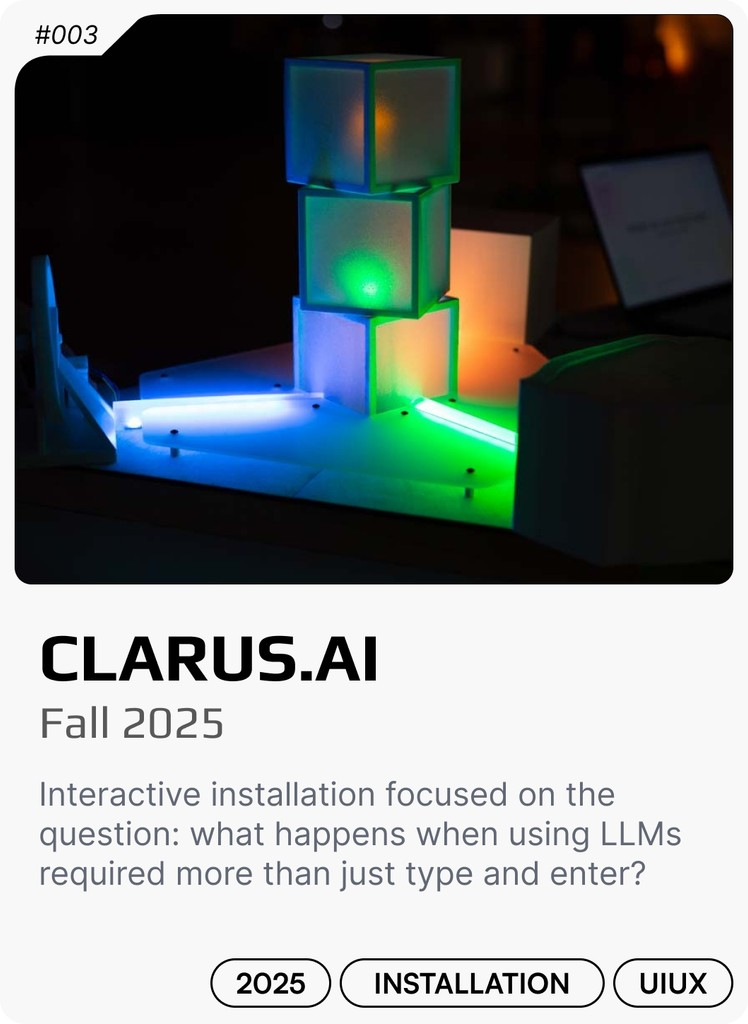
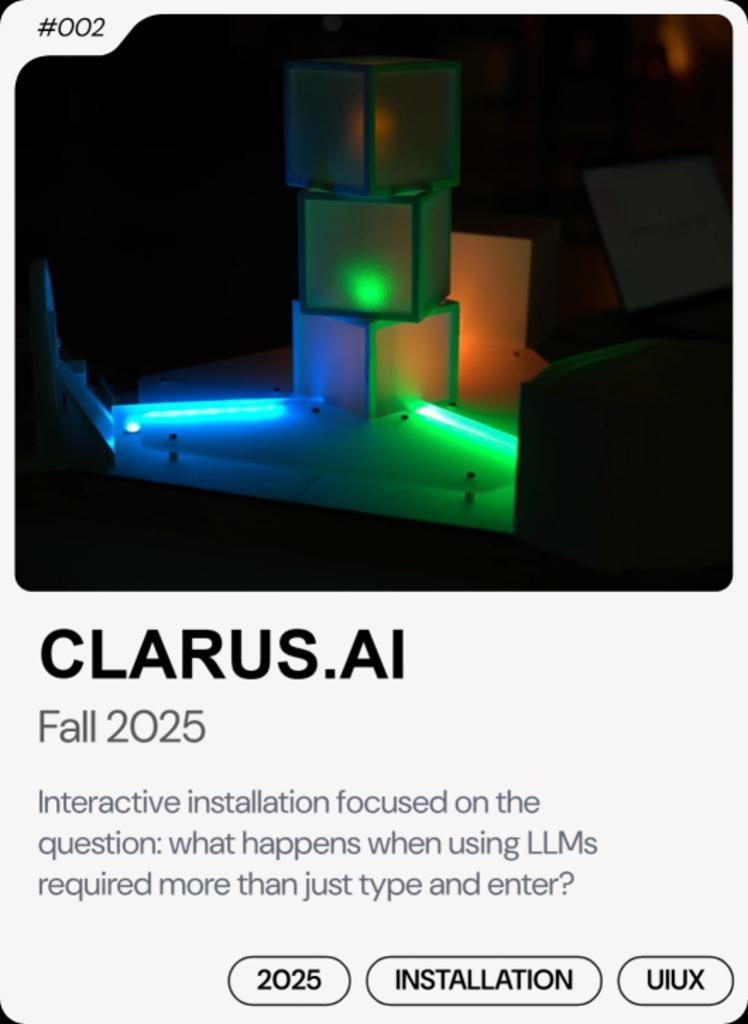
Use the real card faces for the next-project pair, in both themes
These thumbnails were flat artwork kept in step with the carousel by hand,
and they had drifted — the POVI one called the project #008 while the grid
called it #004 — and being pictures of light cards, they stayed bright on a
dark page. They are now exported from the cards themselves, once per theme,
so they cannot disagree with the carousel about what a project looks like or
what it is numbered.

They are backgrounds rather than <img> so the theme picks between the two in
CSS alone. Swapping an <img>'s src in script would mean the light file is
already fetched and painted before the swap runs; a custom property holding
a url() that nothing uses is never fetched, so a dark visitor downloads the
dark file only and never sees the wrong one flash. The accessible name moves
to the link.

Puregym was carrying its own duplicate pair under assets/puregym; it now
draws from the shared set like every other page.

DFG-ASBA is the exception: it has no card in the carousel to render from —
its link still points at the old live site — so its dark face is derived
from the light artwork, remapping the chrome onto the dark tokens and
leaving the hero mockup its own colours.

diff --git a/case.css b/case.css
@@ -388,9 +388,22 @@ main { padding-bottom: 0; }
   --rise-replay: 1;
 }
 
+/* The thumbnails are the card faces themselves, exported from the carousel in
+   both themes (see export-ui-cards.js), rather than flat artwork kept in step
+   by hand — which is how the old ones drifted into showing POVI as #008 while
+   the grid called it #004.
+
+   They are backgrounds rather than <img> so the theme can pick between the two
+   in CSS alone. An <img> would have to be swapped in script, which means the
+   light one is already downloaded and painted before the swap happens; a custom
+   property holding a url() that nothing uses is never fetched, so a dark
+   visitor loads the dark file only, and there is no flash of the wrong one. The
+   link carries the accessible name the <img> used to. */
 .next-card {
   display: block;
   width: var(--card-w);
+  height: var(--card-h);
+  background: var(--card-img) center / cover no-repeat;
   border-radius: 8px;
   overflow: hidden;
   /* the original's three-layer stack — it does not change on hover */
@@ -399,7 +412,17 @@ main { padding-bottom: 0; }
               0 10px 10px -2px rgba(0, 0, 0, 0.18);
   transition: transform 0.28s cubic-bezier(.34, 1.15, .64, 1);
 }
-.next-card img { width: 100%; }
+
+/* One line per project: the light face, and the dark face beside it. */
+.next-card[data-card="asba"] { --card-img: url('assets/cards/asba.jpg'); --card-img-dark: url('assets/cards/asba-dark.jpg'); }
+.next-card[data-card="clarusai"] { --card-img: url('assets/cards/clarusai.jpg'); --card-img-dark: url('assets/cards/clarusai-dark.jpg'); }
+.next-card[data-card="povi"] { --card-img: url('assets/cards/povi.jpg'); --card-img-dark: url('assets/cards/povi-dark.jpg'); }
+.next-card[data-card="puregym"] { --card-img: url('assets/cards/puregym.jpg'); --card-img-dark: url('assets/cards/puregym-dark.jpg'); }
+.next-card[data-card="techatnyu"] { --card-img: url('assets/cards/techatnyu.jpg'); --card-img-dark: url('assets/cards/techatnyu-dark.jpg'); }
+.next-card[data-card="the-dial"] { --card-img: url('assets/cards/the-dial.jpg'); --card-img-dark: url('assets/cards/the-dial-dark.jpg'); }
+
+:root[data-theme="dark"] .next-card { background-image: var(--card-img-dark); }
+
 .next-card:hover { transform: translateY(-11px); }
 
 /* ---------- responsive ---------- */

diff --git a/techatnyu.html b/techatnyu.html
@@ -217,15 +217,13 @@
             <!-- The slot holds the tilt; the card inside does the lift, so the two
                  transforms never fight. data-cursor swaps the dot for a pill. -->
             <div class="next-slot nc1">
-                <a class="next-card" href="puregym.html" data-cursor="open project">
-                    <img src="assets/cards/puregym.jpg" alt="Puregym Redesign">
-                </a>
+                <a class="next-card" data-card="puregym" href="puregym.html" data-cursor="open project"
+                   aria-label="Puregym Redesign"></a>
             </div>
             <div class="next-slot nc2">
                 <!-- /asba is not rebuilt yet, so this still points at the live site. -->
-                <a class="next-card" href="https://hfyj-art.com/asba" data-cursor="open project">
-                    <img src="assets/cards/asba.jpg" alt="ASBA">
-                </a>
+                <a class="next-card" data-card="asba" href="https://hfyj-art.com/asba" data-cursor="open project"
+                   aria-label="ASBA"></a>
             </div>
         </div>
     </div>

diff --git a/puregym.html b/puregym.html
@@ -181,14 +181,12 @@
             <!-- The slot holds the tilt; the card inside does the lift, so the two
                  transforms never fight. data-cursor swaps the dot for a pill. -->
             <div class="next-slot nc1">
-                <a class="next-card" href="the-dial.html" data-cursor="open project">
-                    <img src="assets/puregym/next-the-dial.jpg" alt="The Dial — Summer 2026">
-                </a>
+                <a class="next-card" data-card="the-dial" href="the-dial.html" data-cursor="open project"
+                   aria-label="The Dial — Summer 2026"></a>
             </div>
             <div class="next-slot nc2">
-                <a class="next-card" href="techatnyu.html" data-cursor="open project">
-                    <img src="assets/puregym/next-technyu.jpg" alt="tech@nyu — Summer 2025">
-                </a>
+                <a class="next-card" data-card="techatnyu" href="techatnyu.html" data-cursor="open project"
+                   aria-label="tech@nyu — Summer 2025"></a>
             </div>
         </div>
     </div>

diff --git a/povi.html b/povi.html
@@ -215,14 +215,12 @@
             <!-- The slot holds the tilt; the card inside does the lift, so the two
                  transforms never fight. data-cursor swaps the dot for a pill. -->
             <div class="next-slot nc1">
-                <a class="next-card" href="clarusai.html" data-cursor="open project">
-                    <img src="assets/cards/clarusai.jpg" alt="Clarus AI">
-                </a>
+                <a class="next-card" data-card="clarusai" href="clarusai.html" data-cursor="open project"
+                   aria-label="Clarus AI"></a>
             </div>
             <div class="next-slot nc2">
-                <a class="next-card" href="the-dial.html" data-cursor="open project">
-                    <img src="assets/cards/the-dial.jpg" alt="The Dial">
-                </a>
+                <a class="next-card" data-card="the-dial" href="the-dial.html" data-cursor="open project"
+                   aria-label="The Dial"></a>
             </div>
         </div>
     </div>

diff --git a/clarusai.html b/clarusai.html
@@ -230,14 +230,12 @@
                  transforms never fight. data-cursor swaps the dot for a pill. -->
             <div class="next-slot nc1">
                 <!-- /asba is not rebuilt yet, so this still points at the live site. -->
-                <a class="next-card" href="https://hfyj-art.com/asba" data-cursor="open project">
-                    <img src="assets/cards/asba.jpg" alt="ASBA">
-                </a>
+                <a class="next-card" data-card="asba" href="https://hfyj-art.com/asba" data-cursor="open project"
+                   aria-label="ASBA"></a>
             </div>
             <div class="next-slot nc2">
-                <a class="next-card" href="povi.html" data-cursor="open project">
-                    <img src="assets/cards/povi.jpg" alt="POVI">
-                </a>
+                <a class="next-card" data-card="povi" href="povi.html" data-cursor="open project"
+                   aria-label="POVI"></a>
             </div>
         </div>
     </div>

diff --git a/the-dial.html b/the-dial.html
@@ -218,14 +218,12 @@
             <!-- The slot holds the tilt; the card inside does the lift, so the two
                  transforms never fight. data-cursor swaps the dot for a pill. -->
             <div class="next-slot nc1">
-                <a class="next-card" href="puregym.html" data-cursor="open project">
-                    <img src="assets/cards/puregym.jpg" alt="Puregym Redesign">
-                </a>
+                <a class="next-card" data-card="puregym" href="puregym.html" data-cursor="open project"
+                   aria-label="Puregym Redesign"></a>
             </div>
             <div class="next-slot nc2">
-                <a class="next-card" href="povi.html" data-cursor="open project">
-                    <img src="assets/cards/povi.jpg" alt="POVI">
-                </a>
+                <a class="next-card" data-card="povi" href="povi.html" data-cursor="open project"
+                   aria-label="POVI"></a>
             </div>
         </div>
     </div>
